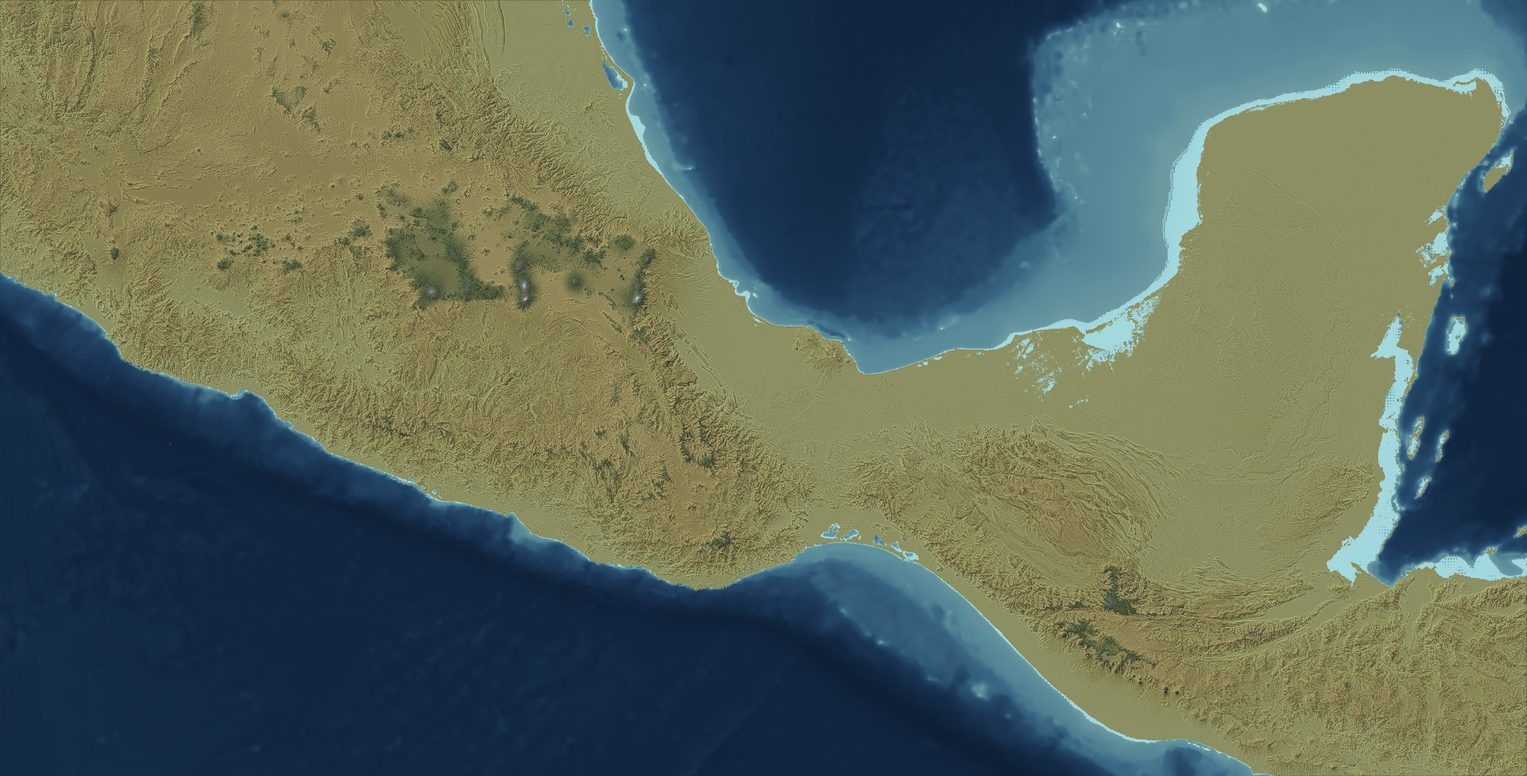
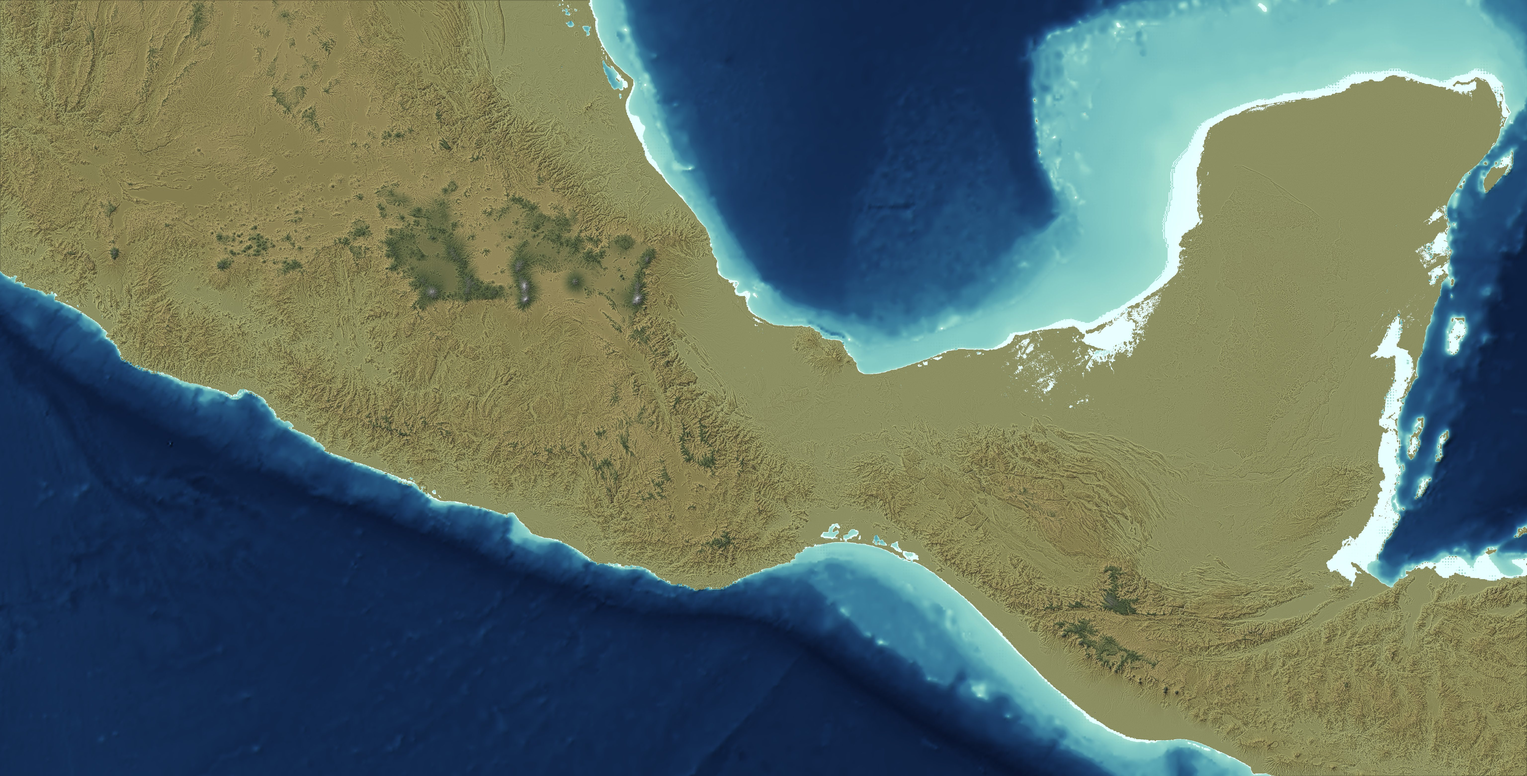
Water iter 2: the oceans get their real relief, turquoise shoals, cut rivers
DIAGNOSED, not tuned: the ocean was shaded at 0.82 + 0.25*hs, which flattened
ETOPO's actual relief — ridges, trenches, the shelf edge, seamounts — almost
out of existence. The reference's 'sea-floor fabric' IS that relief. Ocean
shading now runs 0.52 + 0.80*hs, the same light the land gets, and the
hypsometric ramp crowds its stops between -200 m and 0 where the shelf and
the eye both are, instead of spending range on abyss nobody looks at.

Result, verified at both coasts: the Gulf shows a turquoise Campeche shelf
with a clear break into a textured basin; the Pacific shows its narrow shelf
dropping straight into the Middle America Trench — the asymmetry is real and
now visible. Lake shoals turn turquoise as shallows do, and the Basin's
rivers cut a shaded valley before the water is drawn in it.

diff --git a/docs/data/meta.js b/docs/data/meta.js
@@ -1,3 +1,3 @@
 /* GENERATED by Research/modeling/emit.py — do not hand-edit. */
 window.DATA = window.DATA || {};
-DATA.meta = {"t0":1502.0,"t1":1551.0,"step":0.02,"unit":"yr","speeds":[0.05,0.2,1,3,8,20],"dataVersion":"20260729-215230","timescale":[{"from":1502.0,"to":1519.1315,"w":0.22},{"from":1519.1315,"to":1521.6329,"w":0.56},{"from":1521.6329,"to":1551.0,"w":0.22}],"campaign":[1519.1315,1521.6329],"views":{"meso":{"lon0":-105.0,"lat0":13.5,"lon1":-86.5,"lat1":22.5,"label":"Mesoamerica"},"basin":{"lon0":-99.55,"lat0":19.02,"lon1":-98.55,"lat1":19.95,"label":"Basin of Mexico"},"city":{"lon0":-99.235,"lat0":19.325,"lon1":-99.03,"lat1":19.515,"label":"Tenochtitlan"}},"terrain":{"meso":{"lon0":-105.0,"lat0":13.5,"lon1":-86.5,"lat1":22.5},"corridor":{"lon0":-100.2,"lat0":17.9,"lon1":-95.8,"lat1":20.4},"basin":{"lon0":-99.55,"lat0":19.02,"lon1":-98.55,"lat1":19.95},"city":{"lon0":-99.32,"lat0":19.27,"lon1":-98.94,"lat1":19.57}},"layers":[{"id":"water","label":"Lakes & works (1519 reconstruction)","on":true},{"id":"altepetl","label":"Altepetl & allegiance","on":true},{"id":"epidemic","label":"Epidemic wave (modelled)","on":true},{"id":"tribute","label":"Tribute flows","on":true},{"id":"track","label":"Campaign track","on":true},{"id":"events","label":"Events","on":true},{"id":"works","label":"Causeways & aqueduct cards","on":true},{"id":"city","label":"City model (phased)","on":true},{"id":"figures","label":"Figures & life (impression)","on":true}],"siege":{"start":1521.386301369863,"end":1521.613698630137,"arteries":[{"id":"causeway-tlacopan","label":"Tlacopan causeway","cut":1521.3863,"confidence":"good"},{"id":"causeway-coyoacan","label":"Coyohuacan causeway","cut":1521.3863,"confidence":"good"},{"id":"causeway-iztapalapa","label":"Iztapalapan causeway","cut":1521.3863,"confidence":"good"},{"id":"aqueduct-chapultepec","label":"Chapultepec aqueduct (fresh water)","cut":1521.3973,"confidence":"good"},{"id":"lake","label":"The open lake (canoe supply)","cut":1521.4137,"confidence":"good"},{"id":"causeway-tepeyac","label":"Tepeyacac causeway","cut":1521.4384,"confidence":"moderate"}]},"epidemicBand":[30,50],"epidemicFront":{"lat":19.446,"lon":-96.404,"t0":1520.3552,"kmPerYear":844.3},"cityPhases":{"siege":1521.386301369863,"fall":1521.613698630137,"colonial":1522.0384},"stateColor":{"alliance-core":"#a83232","tributary":"#c96f4a","independent":"#7d5fb2","rival":"#8a6d3b","contested":"#d9a441","allied-coalition":"#3f8f6b","occupied":"#5a7d9a","colonial-ally":"#4a9a8f","new-spain":"#8a8f98","spanish":"#6b7fa8"},"stateLabel":{"alliance-core":"Triple Alliance seat","tributary":"Tributary","independent":"Independent","rival":"Rival empire","contested":"Contested","allied-coalition":"Coalition","occupied":"Occupied","colonial-ally":"Colonial ally (privileged)","new-spain":"New Spain","spanish":"Spanish foundation"},"about":{"what":"An interactive model of the fall of Tenochtitlan and its aftermath, 1502-1550: the tributary system, the coalition that pulled it apart, the siege, and the colonial consolidation — every polity's allegiance computed per day from dated, cited events.","naming":"\"Aztec\" appears in this project's title for findability only. It is a modern coinage and never a self-designation: this model says Mexica for the people, Triple Alliance for the polity, and each altepetl's own name — Nahuatl endonym first, Spanish exonym second.","notKnow":["The 1519 lake shoreline is a reconstruction (González Aparicio 1973), drawn here at visualization grade — the lakes were drained after the conquest.","The coastline and sierra are simplified authored cartography (the modern coast, at this drawing's resolution, stands in for 1519's); the epidemic layer is a modelled wave pinned only at its documented start and its documented arrival in the capital — every other onset is a window, not a record.","Indigenous force numbers are contested by an order of magnitude; population and epidemic mortality more. Every such quantity is a band, never a number.","Motive and speech are the least constrained things in the record. Contested episodes carry a 'What the sources say' section instead of a verdict.","Nahua calendar equivalents are correlations anchored at 13 Aug 1521 = 1 Cóatl; the correlation itself is contested and is labelled as such.","Allegiance below the altepetl is not modelled; 'contested' is the resolution floor. Post-war absorption dates marked 'modelled' are defaults, not records.","The 1524 Nuremberg woodcut is georeferenced and measured at a mean best-fit residual of 2.2 km (5.5 km at the city itself): topology, not geometry. It appears here as a document, and nothing in the model traces it.","Figure-scale scenes — the marching files, skirmishes, canoe traffic, porters, refugees, the city's house fabric and its trees — are procedural ARTISTIC IMPRESSIONS rooted in the accounts (Calnek's urban fabric; the chroniclers' canoe-borne city; the causeway exodus after the fall). Contingent sizes follow the model's own force bands; positions are deterministic seeds, not records. Nothing at figure scale is an attestation."],"sources":["Cortés, Cartas de relación (1519-26) — a legal self-defence, used as such","Bernal Díaz, Historia verdadera (c. 1568) — the soldiers' counter-memoir","Florentine Codex Book XII (c. 1555-79) — Nahua testimony, Tlatelolca vantage","Anales de Tlatelolco; Durán; Alva Ixtlilxóchitl; Muñoz Camargo","Codex Mendoza (Berdan & Anawalt 1992); Gerhard (1972); Smith & Berdan (1996)","González Aparicio (1973), Plano reconstructivo — the named lake reconstruction","Thomas (1993); Hassig (2006); Gibson (1964) — modern chronology and aftermath","Terrain: NASA/USGS SRTM elevation and NOAA ETOPO1 bathymetry via the AWS Open Data Terrain Tiles (Mapzen terrarium) — public domain sources, rendered by this project's own pipeline; the seasonal palette is a modelled rendering choice","Card images: public-domain scans via Wikimedia Commons (Newberry Library; Bodleian; Biblioteca Medicea Laurenziana; Library of Congress/Kislak; Uppsala University Library), each subject-verified and credited on its card"]},"updates":[{"version":"2.3","date":"28 July 2026","title":"The city, built","summary":"Tenochtitlan is no longer an outline with dots on it. Zoom in and the island has its fabric: blocks of courtyard compounds under lime and thatch, canals and streets with width, chinampa strips, jetties where the city meets its lake, the walled precinct with its stepped pyramid — and every other altepetl has a town of its own, on its own plan.","items":["The dense world moved to a canvas layer under the map, which is what makes thousands of buildings per frame affordable; everything you can click stays in the layer above it.","Blocks have grain: each shares an orientation off the canal line and a roofing material, with lordly four-wing compounds near the precinct, garden blocks, and tight commoner wards toward the water — Calnek's finding that lot sizes varied by an order of magnitude, made visible.","The sacred precincts are architecture: a walled, paved court with gates on the causeway axes, the great temple as five terraces with twin stairways and the shrines of Tlaloc and Huitzilopochtli, the round temple of Ehecatl, the ballcourt, the tzompantli, and the calmecac ranges along the walls.","Towns differ from each other: dispersed wards for Tlaxcallan's four cabeceras, compact plaza towns on the roads, linear towns along the lakeshore — and Cholula carries the Tlachihualtepetl, the greatest pyramid by volume in the Americas, grassed over already in 1519.","The siege is legible on the ground: the causeway breaches the defenders cut and the attackers spent the siege filling, the arteries reddening as each is severed, the island charring south to north under its smoke, and the market crowd thinning to nothing.","After 1522 the same ground rebuilds as the traza — red-tiled courtyard blocks around their patios, the plaza and cathedral on the razed precinct — while the Mexica parcialidades keep their old fabric at the edges.","Landscape detail is GROWN from the measured terrain rather than invented: the elevation data is 30 m and the screen asks for one, so woodland clusters where the ground is darker than its neighbourhood, with field terraces on worked land and grain over everything."]},{"version":"2.2","date":"27 July 2026","title":"Uniform ground, and the world peopled","summary":"The whole war theatre now carries the same sharp terrain — a new corridor render from Veracruz to the Basin ends the blur beyond the valley — and the model gains its figure scale: files of soldiers on the march, skirmishes you can watch, canoes on the lake, porters on the tribute roads, the exodus after the fall, and the island's own house fabric at street zoom. All of it impression, and labelled so.","items":["A z11 terrain level covers the corridor Veracruz-Tlaxcallan-Basin-Morelos, and the base map doubles to its data's native grain — the seam a reader rightly photographed east of the Basin is gone.","At street zoom Tenochtitlan fills with its houses — densest toward the precinct, charring south-to-north during the razing, rebuilt as orthogonal traza blocks after 1522 — with trees on the chinampa gardens.","The column marches as a file: a steel-grey Spanish file and the far longer tan allied file behind it, lengths scaled to the model's own force bands.","Battles play as scenes: defenders ring the ground, attackers close on it through the event's window; massacres close a ring instead. Deterministic in t — scrub back and the same scene replays.","The lake lives: canoe traffic runs between the shore towns and the island until the day the brigantines break the fleet, waterfowl drift indifferent, porters walk the tribute arcs while their towns still owe, and for six weeks after the fall the causeways carry the grey file of the exodus.","Every figure-scale element is a seeded procedural impression rooted in the accounts — counts from the force bands, nothing at figure scale an attestation — stated in About and on the layer's own name."]},{"version":"2.1","date":"27 July 2026","title":"The city itself, and the war in motion","summary":"Tenochtitlan stops being an outline: precincts, palaces, the canal fabric, the chinampa skirts and the four campan, phased across the timeline — intact, besieged and burning, ruined, then colonial. The terrain sharpens to its data's native grain, and events stop being identical diamonds: the column marches, battles pulse, the epidemic front expands, the arteries redden as they are cut.","items":["The city model (drawn from Calnek, the excavations and the street fossils of the modern Centro): sacred precincts, the palaces of Axayácatl and Moctezuma, the great market, schematic canals — dashed because schematic — chinampa fringes, then the colonial traza and its churches after 1522. Every element is a card; the same place reads differently in 1519 and 1540.","City events sit where they happened: the meeting at Xoloc on the causeway, the seizure in Axayácatl's palace, Tóxcatl in the precinct courtyard, the last stand in Tlatelolco's market — and labels stack instead of overprinting, so the plague year's crowded weeks read cleanly.","The war moves: the column is drawn in transit between its dated waypoints; battles and massacres pulse rings for days after their date; the arteries turn crimson as each is cut; brigantines hold the lake; smoke stands over the razing; the epidemic's modelled front expands from the coast.","Terrain at native grain (z9/z12) with curvature-shaded ravines and rock on steep ground — and a rendering lesson kept honest: the first city render amplified upsampling noise into a checkerboard, was caught visually, and the curvature now fades below the data's 30 m grain."]},{"version":"2.0","date":"27 July 2026","title":"A living landscape, a continuous camera, and the record illustrated","summary":"The map becomes terrain: real elevation and ocean depth (NASA SRTM and NOAA ETOPO), hillshaded and breathing with the wet and dry seasons. The camera zooms freely between the scales. Chapters open as illustrated cards, and the record's own images — codices, the Lienzo, the 1524 woodcut — appear on the cards they belong to, each with its credit.","items":["Terrain everywhere: the Basin's ravined sierra, the drained lakebed under the reconstructed 1519 lakes, the Gulf's turquoise shelf and the Pacific trench — measured data, rendered wet and dry; the seasons crossfade as the year turns.","Popocatépetl smokes for its attested 1519-1528 active years (see 'Ordaz climbs the smoking mountain'), and cloud shadows thicken with the rains.","Zoom with the wheel, pan by dragging, or fly between the three named scales; the terrain streams in sharper as you approach.","Chapters are cards now: click one for the period's story, its image and its events. Ten illustrated with the record's own pictures — Mendoza folios, Book XII's smallpox plate, the Lienzo de Tlaxcala, the Kislak Sad Night, the Uppsala map.","The 1524 Nuremberg map is georeferenced and measured: best-fit residual 2.2 km (5.5 km at the city) — beautiful topology, unusable geometry, and the About panel now says exactly that with the number.","Every image is public domain, subject-verified, and credited on its card; the five searches that found nothing licence-safe are recorded as negatives in the manifest rather than papered over."]},{"version":"1.1","date":"27 July 2026","title":"The land under the war — and the war's slower weapons","summary":"The map now has its ground: coasts, seas, the sierras and the named volcanoes (a first-release report said, correctly, that the map was a black background). And two layers stop being scenery: the smallpox is a modelled wave, and the siege is a derived state.","items":["Land and sea: a simplified authored coastline, the Gulf and Pacific, the great sierras and eight named peaks — including the two volcanoes whose pass the column crossed in November 1519.","The epidemic is a mechanism now: a wave on the settlement network, seeded at the coast in May 1520 and calibrated to the documented sixty days in the capital from October — every polity shows its modelled onset window, and mortality stays a band (30-50%, contested).","The siege is derived, not narrated: six arteries — four causeways, the aqueduct, the open lake — each cut by a dated, cited event; a panel counts the tourniquets 0 to 6 between 22 May and 13 August 1521.","Eighteen people join the model as time-aware cards — the three last tlahtohqueh, Malintzin (with the four-century argument about her carried as accounts), the Tlaxcalteca leadership, and the aftermath's builders.","Twenty-five new events carry the record to ~90, including the contested Guadalupe tradition (dated as tradition, with the documentary silence stated), don Carlos of Texcoco's burning, the Colegio de Tlatelolco, and Sahagún beginning the interviews that became this model's own chief source.","Province cards now list their principal Mendoza tribute — cacao, quetzal feathers, gold dust, cochineal — so the web the coalition broke is legible good by good."]},{"version":"1.0","date":"27 July 2026","title":"The coalition is on the map","summary":"First release. The map draws allegiance per altepetl per day — 75 polities through the war and its aftermath — instead of a two-colour conquest.","items":["Every polity's standing (tributary, contested, coalition, occupied, New Spain) is computed from 64 dated, cited events; the mid-siege map shows 24 allied and 12 occupied against 30 still-tributary — the coalition, visibly.","Contested episodes — Cholula, Tóxcatl, Moctezuma's death and his famous 'surrender' — carry a 'What the sources say' section naming who claims what and why each would.","The lakes, causeways, dike and aqueduct follow González Aparicio's 1973 reconstruction, scored against the Templo Mayor anchor table (residuals under 6 m; no town drawn in the water).","The timeline gives the two war years 56% of the track at day resolution, with the scale breaks drawn; dates are Julian, with Nahua equivalents labelled as the correlations they are.","Force numbers appear only as ranges: at the siege, 700-950 Spaniards beside 24,000-200,000 Nahua allies — the sources are parties to every count."]}]};
+DATA.meta = {"t0":1502.0,"t1":1551.0,"step":0.02,"unit":"yr","speeds":[0.05,0.2,1,3,8,20],"dataVersion":"20260729-221816","timescale":[{"from":1502.0,"to":1519.1315,"w":0.22},{"from":1519.1315,"to":1521.6329,"w":0.56},{"from":1521.6329,"to":1551.0,"w":0.22}],"campaign":[1519.1315,1521.6329],"views":{"meso":{"lon0":-105.0,"lat0":13.5,"lon1":-86.5,"lat1":22.5,"label":"Mesoamerica"},"basin":{"lon0":-99.55,"lat0":19.02,"lon1":-98.55,"lat1":19.95,"label":"Basin of Mexico"},"city":{"lon0":-99.235,"lat0":19.325,"lon1":-99.03,"lat1":19.515,"label":"Tenochtitlan"}},"terrain":{"meso":{"lon0":-105.0,"lat0":13.5,"lon1":-86.5,"lat1":22.5},"corridor":{"lon0":-100.2,"lat0":17.9,"lon1":-95.8,"lat1":20.4},"basin":{"lon0":-99.55,"lat0":19.02,"lon1":-98.55,"lat1":19.95},"city":{"lon0":-99.32,"lat0":19.27,"lon1":-98.94,"lat1":19.57}},"layers":[{"id":"water","label":"Lakes & works (1519 reconstruction)","on":true},{"id":"altepetl","label":"Altepetl & allegiance","on":true},{"id":"epidemic","label":"Epidemic wave (modelled)","on":true},{"id":"tribute","label":"Tribute flows","on":true},{"id":"track","label":"Campaign track","on":true},{"id":"events","label":"Events","on":true},{"id":"works","label":"Causeways & aqueduct cards","on":true},{"id":"city","label":"City model (phased)","on":true},{"id":"figures","label":"Figures & life (impression)","on":true}],"siege":{"start":1521.386301369863,"end":1521.613698630137,"arteries":[{"id":"causeway-tlacopan","label":"Tlacopan causeway","cut":1521.3863,"confidence":"good"},{"id":"causeway-coyoacan","label":"Coyohuacan causeway","cut":1521.3863,"confidence":"good"},{"id":"causeway-iztapalapa","label":"Iztapalapan causeway","cut":1521.3863,"confidence":"good"},{"id":"aqueduct-chapultepec","label":"Chapultepec aqueduct (fresh water)","cut":1521.3973,"confidence":"good"},{"id":"lake","label":"The open lake (canoe supply)","cut":1521.4137,"confidence":"good"},{"id":"causeway-tepeyac","label":"Tepeyacac causeway","cut":1521.4384,"confidence":"moderate"}]},"epidemicBand":[30,50],"epidemicFront":{"lat":19.446,"lon":-96.404,"t0":1520.3552,"kmPerYear":844.3},"cityPhases":{"siege":1521.386301369863,"fall":1521.613698630137,"colonial":1522.0384},"stateColor":{"alliance-core":"#a83232","tributary":"#c96f4a","independent":"#7d5fb2","rival":"#8a6d3b","contested":"#d9a441","allied-coalition":"#3f8f6b","occupied":"#5a7d9a","colonial-ally":"#4a9a8f","new-spain":"#8a8f98","spanish":"#6b7fa8"},"stateLabel":{"alliance-core":"Triple Alliance seat","tributary":"Tributary","independent":"Independent","rival":"Rival empire","contested":"Contested","allied-coalition":"Coalition","occupied":"Occupied","colonial-ally":"Colonial ally (privileged)","new-spain":"New Spain","spanish":"Spanish foundation"},"about":{"what":"An interactive model of the fall of Tenochtitlan and its aftermath, 1502-1550: the tributary system, the coalition that pulled it apart, the siege, and the colonial consolidation — every polity's allegiance computed per day from dated, cited events.","naming":"\"Aztec\" appears in this project's title for findability only. It is a modern coinage and never a self-designation: this model says Mexica for the people, Triple Alliance for the polity, and each altepetl's own name — Nahuatl endonym first, Spanish exonym second.","notKnow":["The 1519 lake shoreline is a reconstruction (González Aparicio 1973), drawn here at visualization grade — the lakes were drained after the conquest.","The coastline and sierra are simplified authored cartography (the modern coast, at this drawing's resolution, stands in for 1519's); the epidemic layer is a modelled wave pinned only at its documented start and its documented arrival in the capital — every other onset is a window, not a record.","Indigenous force numbers are contested by an order of magnitude; population and epidemic mortality more. Every such quantity is a band, never a number.","Motive and speech are the least constrained things in the record. Contested episodes carry a 'What the sources say' section instead of a verdict.","Nahua calendar equivalents are correlations anchored at 13 Aug 1521 = 1 Cóatl; the correlation itself is contested and is labelled as such.","Allegiance below the altepetl is not modelled; 'contested' is the resolution floor. Post-war absorption dates marked 'modelled' are defaults, not records.","The 1524 Nuremberg woodcut is georeferenced and measured at a mean best-fit residual of 2.2 km (5.5 km at the city itself): topology, not geometry. It appears here as a document, and nothing in the model traces it.","Figure-scale scenes — the marching files, skirmishes, canoe traffic, porters, refugees, the city's house fabric and its trees — are procedural ARTISTIC IMPRESSIONS rooted in the accounts (Calnek's urban fabric; the chroniclers' canoe-borne city; the causeway exodus after the fall). Contingent sizes follow the model's own force bands; positions are deterministic seeds, not records. Nothing at figure scale is an attestation."],"sources":["Cortés, Cartas de relación (1519-26) — a legal self-defence, used as such","Bernal Díaz, Historia verdadera (c. 1568) — the soldiers' counter-memoir","Florentine Codex Book XII (c. 1555-79) — Nahua testimony, Tlatelolca vantage","Anales de Tlatelolco; Durán; Alva Ixtlilxóchitl; Muñoz Camargo","Codex Mendoza (Berdan & Anawalt 1992); Gerhard (1972); Smith & Berdan (1996)","González Aparicio (1973), Plano reconstructivo — the named lake reconstruction","Thomas (1993); Hassig (2006); Gibson (1964) — modern chronology and aftermath","Terrain: NASA/USGS SRTM elevation and NOAA ETOPO1 bathymetry via the AWS Open Data Terrain Tiles (Mapzen terrarium) — public domain sources, rendered by this project's own pipeline; the seasonal palette is a modelled rendering choice","Card images: public-domain scans via Wikimedia Commons (Newberry Library; Bodleian; Biblioteca Medicea Laurenziana; Library of Congress/Kislak; Uppsala University Library), each subject-verified and credited on its card"]},"updates":[{"version":"2.3","date":"28 July 2026","title":"The city, built","summary":"Tenochtitlan is no longer an outline with dots on it. Zoom in and the island has its fabric: blocks of courtyard compounds under lime and thatch, canals and streets with width, chinampa strips, jetties where the city meets its lake, the walled precinct with its stepped pyramid — and every other altepetl has a town of its own, on its own plan.","items":["The dense world moved to a canvas layer under the map, which is what makes thousands of buildings per frame affordable; everything you can click stays in the layer above it.","Blocks have grain: each shares an orientation off the canal line and a roofing material, with lordly four-wing compounds near the precinct, garden blocks, and tight commoner wards toward the water — Calnek's finding that lot sizes varied by an order of magnitude, made visible.","The sacred precincts are architecture: a walled, paved court with gates on the causeway axes, the great temple as five terraces with twin stairways and the shrines of Tlaloc and Huitzilopochtli, the round temple of Ehecatl, the ballcourt, the tzompantli, and the calmecac ranges along the walls.","Towns differ from each other: dispersed wards for Tlaxcallan's four cabeceras, compact plaza towns on the roads, linear towns along the lakeshore — and Cholula carries the Tlachihualtepetl, the greatest pyramid by volume in the Americas, grassed over already in 1519.","The siege is legible on the ground: the causeway breaches the defenders cut and the attackers spent the siege filling, the arteries reddening as each is severed, the island charring south to north under its smoke, and the market crowd thinning to nothing.","After 1522 the same ground rebuilds as the traza — red-tiled courtyard blocks around their patios, the plaza and cathedral on the razed precinct — while the Mexica parcialidades keep their old fabric at the edges.","Landscape detail is GROWN from the measured terrain rather than invented: the elevation data is 30 m and the screen asks for one, so woodland clusters where the ground is darker than its neighbourhood, with field terraces on worked land and grain over everything."]},{"version":"2.2","date":"27 July 2026","title":"Uniform ground, and the world peopled","summary":"The whole war theatre now carries the same sharp terrain — a new corridor render from Veracruz to the Basin ends the blur beyond the valley — and the model gains its figure scale: files of soldiers on the march, skirmishes you can watch, canoes on the lake, porters on the tribute roads, the exodus after the fall, and the island's own house fabric at street zoom. All of it impression, and labelled so.","items":["A z11 terrain level covers the corridor Veracruz-Tlaxcallan-Basin-Morelos, and the base map doubles to its data's native grain — the seam a reader rightly photographed east of the Basin is gone.","At street zoom Tenochtitlan fills with its houses — densest toward the precinct, charring south-to-north during the razing, rebuilt as orthogonal traza blocks after 1522 — with trees on the chinampa gardens.","The column marches as a file: a steel-grey Spanish file and the far longer tan allied file behind it, lengths scaled to the model's own force bands.","Battles play as scenes: defenders ring the ground, attackers close on it through the event's window; massacres close a ring instead. Deterministic in t — scrub back and the same scene replays.","The lake lives: canoe traffic runs between the shore towns and the island until the day the brigantines break the fleet, waterfowl drift indifferent, porters walk the tribute arcs while their towns still owe, and for six weeks after the fall the causeways carry the grey file of the exodus.","Every figure-scale element is a seeded procedural impression rooted in the accounts — counts from the force bands, nothing at figure scale an attestation — stated in About and on the layer's own name."]},{"version":"2.1","date":"27 July 2026","title":"The city itself, and the war in motion","summary":"Tenochtitlan stops being an outline: precincts, palaces, the canal fabric, the chinampa skirts and the four campan, phased across the timeline — intact, besieged and burning, ruined, then colonial. The terrain sharpens to its data's native grain, and events stop being identical diamonds: the column marches, battles pulse, the epidemic front expands, the arteries redden as they are cut.","items":["The city model (drawn from Calnek, the excavations and the street fossils of the modern Centro): sacred precincts, the palaces of Axayácatl and Moctezuma, the great market, schematic canals — dashed because schematic — chinampa fringes, then the colonial traza and its churches after 1522. Every element is a card; the same place reads differently in 1519 and 1540.","City events sit where they happened: the meeting at Xoloc on the causeway, the seizure in Axayácatl's palace, Tóxcatl in the precinct courtyard, the last stand in Tlatelolco's market — and labels stack instead of overprinting, so the plague year's crowded weeks read cleanly.","The war moves: the column is drawn in transit between its dated waypoints; battles and massacres pulse rings for days after their date; the arteries turn crimson as each is cut; brigantines hold the lake; smoke stands over the razing; the epidemic's modelled front expands from the coast.","Terrain at native grain (z9/z12) with curvature-shaded ravines and rock on steep ground — and a rendering lesson kept honest: the first city render amplified upsampling noise into a checkerboard, was caught visually, and the curvature now fades below the data's 30 m grain."]},{"version":"2.0","date":"27 July 2026","title":"A living landscape, a continuous camera, and the record illustrated","summary":"The map becomes terrain: real elevation and ocean depth (NASA SRTM and NOAA ETOPO), hillshaded and breathing with the wet and dry seasons. The camera zooms freely between the scales. Chapters open as illustrated cards, and the record's own images — codices, the Lienzo, the 1524 woodcut — appear on the cards they belong to, each with its credit.","items":["Terrain everywhere: the Basin's ravined sierra, the drained lakebed under the reconstructed 1519 lakes, the Gulf's turquoise shelf and the Pacific trench — measured data, rendered wet and dry; the seasons crossfade as the year turns.","Popocatépetl smokes for its attested 1519-1528 active years (see 'Ordaz climbs the smoking mountain'), and cloud shadows thicken with the rains.","Zoom with the wheel, pan by dragging, or fly between the three named scales; the terrain streams in sharper as you approach.","Chapters are cards now: click one for the period's story, its image and its events. Ten illustrated with the record's own pictures — Mendoza folios, Book XII's smallpox plate, the Lienzo de Tlaxcala, the Kislak Sad Night, the Uppsala map.","The 1524 Nuremberg map is georeferenced and measured: best-fit residual 2.2 km (5.5 km at the city) — beautiful topology, unusable geometry, and the About panel now says exactly that with the number.","Every image is public domain, subject-verified, and credited on its card; the five searches that found nothing licence-safe are recorded as negatives in the manifest rather than papered over."]},{"version":"1.1","date":"27 July 2026","title":"The land under the war — and the war's slower weapons","summary":"The map now has its ground: coasts, seas, the sierras and the named volcanoes (a first-release report said, correctly, that the map was a black background). And two layers stop being scenery: the smallpox is a modelled wave, and the siege is a derived state.","items":["Land and sea: a simplified authored coastline, the Gulf and Pacific, the great sierras and eight named peaks — including the two volcanoes whose pass the column crossed in November 1519.","The epidemic is a mechanism now: a wave on the settlement network, seeded at the coast in May 1520 and calibrated to the documented sixty days in the capital from October — every polity shows its modelled onset window, and mortality stays a band (30-50%, contested).","The siege is derived, not narrated: six arteries — four causeways, the aqueduct, the open lake — each cut by a dated, cited event; a panel counts the tourniquets 0 to 6 between 22 May and 13 August 1521.","Eighteen people join the model as time-aware cards — the three last tlahtohqueh, Malintzin (with the four-century argument about her carried as accounts), the Tlaxcalteca leadership, and the aftermath's builders.","Twenty-five new events carry the record to ~90, including the contested Guadalupe tradition (dated as tradition, with the documentary silence stated), don Carlos of Texcoco's burning, the Colegio de Tlatelolco, and Sahagún beginning the interviews that became this model's own chief source.","Province cards now list their principal Mendoza tribute — cacao, quetzal feathers, gold dust, cochineal — so the web the coalition broke is legible good by good."]},{"version":"1.0","date":"27 July 2026","title":"The coalition is on the map","summary":"First release. The map draws allegiance per altepetl per day — 75 polities through the war and its aftermath — instead of a two-colour conquest.","items":["Every polity's standing (tributary, contested, coalition, occupied, New Spain) is computed from 64 dated, cited events; the mid-siege map shows 24 allied and 12 occupied against 30 still-tributary — the coalition, visibly.","Contested episodes — Cholula, Tóxcatl, Moctezuma's death and his famous 'surrender' — carry a 'What the sources say' section naming who claims what and why each would.","The lakes, causeways, dike and aqueduct follow González Aparicio's 1973 reconstruction, scored against the Templo Mayor anchor table (residuals under 6 m; no town drawn in the water).","The timeline gives the two war years 56% of the track at day resolution, with the scale breaks drawn; dates are Julian, with Nahua equivalents labelled as the correlations they are.","Force numbers appear only as ranges: at the siege, 700-950 Spaniards beside 24,000-200,000 Nahua allies — the sources are parties to every count."]}]};

diff --git a/docs/js/app.js b/docs/js/app.js
@@ -669,10 +669,10 @@ const DEPTH_STOPS = [
   [0.22, 26, 62, 112, 1.00],
   [0.42, 40, 92, 145, 0.99],
   [0.55, 62, 126, 172, 0.97],    // the break
-  [0.68, 96, 164, 190, 0.92],
-  [0.82, 132, 192, 202, 0.84],   // the shoal
-  [0.93, 168, 212, 210, 0.72],
-  [1.00, 196, 226, 218, 0.55],   // the waterline, where the bed shows through
+  [0.68, 88, 168, 186, 0.92],
+  [0.82, 122, 196, 196, 0.84],   // the shoal turns turquoise, as shallows do
+  [0.93, 158, 216, 204, 0.72],
+  [1.00, 190, 228, 212, 0.55],   // the waterline, where the bed shows through
 ];
 
 function depthColour(k, wet) {
@@ -814,16 +814,24 @@ function drawLakes(wet) {
   if (state.cam.span < 3.0 && D.geo.rivers) {
     for (const r of D.geo.rivers) {
       const n = r.points.length;
-      for (let i = 0; i < n - 1; i++) {
-        const [ax, ay] = project(r.points[i][0], r.points[i][1]);
-        const [bx, by] = project(r.points[i + 1][0], r.points[i + 1][1]);
-        const grow = (i + 1) / (n - 1);
-        ctx.beginPath();
-        ctx.moveTo(ax, ay); ctx.lineTo(bx, by);
-        ctx.lineCap = 'round';
-        ctx.lineWidth = Math.max(0.8, (0.00006 + 0.00016 * grow) * PROJ.s);
-        ctx.strokeStyle = `rgba(96,150,186,${(0.5 + 0.35 * grow).toFixed(2)})`;
-        ctx.stroke();
+      // a river cuts a valley: the shaded incision first, then the water in it
+      for (let pass = 0; pass < 2; pass++) {
+        for (let i = 0; i < n - 1; i++) {
+          const [ax, ay] = project(r.points[i][0], r.points[i][1]);
+          const [bx, by] = project(r.points[i + 1][0], r.points[i + 1][1]);
+          const grow = (i + 1) / (n - 1);
+          ctx.beginPath();
+          ctx.moveTo(ax, ay); ctx.lineTo(bx, by);
+          ctx.lineCap = 'round';
+          if (pass === 0) {                        // the cut bank, sun from NW
+            ctx.lineWidth = Math.max(1.6, (0.00016 + 0.00030 * grow) * PROJ.s);
+            ctx.strokeStyle = 'rgba(46,52,38,.30)';
+          } else {
+            ctx.lineWidth = Math.max(0.8, (0.00006 + 0.00016 * grow) * PROJ.s);
+            ctx.strokeStyle = `rgba(96,158,190,${(0.55 + 0.35 * grow).toFixed(2)})`;
+          }
+          ctx.stroke();
+        }
       }
       const m = r.points[n - 1], p0 = r.points[n - 2];
       const [mx, my] = project(m[0], m[1]);

diff --git a/web/js/app.js b/web/js/app.js
@@ -669,10 +669,10 @@ const DEPTH_STOPS = [
   [0.22, 26, 62, 112, 1.00],
   [0.42, 40, 92, 145, 0.99],
   [0.55, 62, 126, 172, 0.97],    // the break
-  [0.68, 96, 164, 190, 0.92],
-  [0.82, 132, 192, 202, 0.84],   // the shoal
-  [0.93, 168, 212, 210, 0.72],
-  [1.00, 196, 226, 218, 0.55],   // the waterline, where the bed shows through
+  [0.68, 88, 168, 186, 0.92],
+  [0.82, 122, 196, 196, 0.84],   // the shoal turns turquoise, as shallows do
+  [0.93, 158, 216, 204, 0.72],
+  [1.00, 190, 228, 212, 0.55],   // the waterline, where the bed shows through
 ];
 
 function depthColour(k, wet) {
@@ -814,16 +814,24 @@ function drawLakes(wet) {
   if (state.cam.span < 3.0 && D.geo.rivers) {
     for (const r of D.geo.rivers) {
       const n = r.points.length;
-      for (let i = 0; i < n - 1; i++) {
-        const [ax, ay] = project(r.points[i][0], r.points[i][1]);
-        const [bx, by] = project(r.points[i + 1][0], r.points[i + 1][1]);
-        const grow = (i + 1) / (n - 1);
-        ctx.beginPath();
-        ctx.moveTo(ax, ay); ctx.lineTo(bx, by);
-        ctx.lineCap = 'round';
-        ctx.lineWidth = Math.max(0.8, (0.00006 + 0.00016 * grow) * PROJ.s);
-        ctx.strokeStyle = `rgba(96,150,186,${(0.5 + 0.35 * grow).toFixed(2)})`;
-        ctx.stroke();
+      // a river cuts a valley: the shaded incision first, then the water in it
+      for (let pass = 0; pass < 2; pass++) {
+        for (let i = 0; i < n - 1; i++) {
+          const [ax, ay] = project(r.points[i][0], r.points[i][1]);
+          const [bx, by] = project(r.points[i + 1][0], r.points[i + 1][1]);
+          const grow = (i + 1) / (n - 1);
+          ctx.beginPath();
+          ctx.moveTo(ax, ay); ctx.lineTo(bx, by);
+          ctx.lineCap = 'round';
+          if (pass === 0) {                        // the cut bank, sun from NW
+            ctx.lineWidth = Math.max(1.6, (0.00016 + 0.00030 * grow) * PROJ.s);
+            ctx.strokeStyle = 'rgba(46,52,38,.30)';
+          } else {
+            ctx.lineWidth = Math.max(0.8, (0.00006 + 0.00016 * grow) * PROJ.s);
+            ctx.strokeStyle = `rgba(96,158,190,${(0.55 + 0.35 * grow).toFixed(2)})`;
+          }
+          ctx.stroke();
+        }
       }
       const m = r.points[n - 1], p0 = r.points[n - 2];
       const [mx, my] = project(m[0], m[1]);

diff --git a/docs/index.html b/docs/index.html
@@ -4,7 +4,7 @@
 <meta charset="utf-8">
 <meta name="viewport" content="width=device-width,initial-scale=1">
 <title>Aztec Conquest</title>
-<link rel="stylesheet" href="css/styles.css?dv=20260729-215230">
+<link rel="stylesheet" href="css/styles.css?dv=20260729-221816">
 </head>
 <body>
 
@@ -122,11 +122,11 @@
   </div>
 </div>
 
-<script src="data/meta.js?dv=20260729-215230"></script>
-<script src="data/eras.js?dv=20260729-215230"></script>
-<script src="data/entities.js?dv=20260729-215230"></script>
-<script src="data/eventsFull.js?dv=20260729-215230"></script>
-<script src="data/geo.js?dv=20260729-215230"></script>
-<script src="js/app.js?dv=20260729-215230"></script>
+<script src="data/meta.js?dv=20260729-221816"></script>
+<script src="data/eras.js?dv=20260729-221816"></script>
+<script src="data/entities.js?dv=20260729-221816"></script>
+<script src="data/eventsFull.js?dv=20260729-221816"></script>
+<script src="data/geo.js?dv=20260729-221816"></script>
+<script src="js/app.js?dv=20260729-221816"></script>
 </body>
 </html>

diff --git a/build/terrain.py b/build/terrain.py
@@ -160,9 +160,12 @@ LAND = {
             (3900, (110, 116, 106)), (4400, (152, 156, 158)), (4750, (230, 234, 238)),
             (5700, (246, 248, 252))],
 }
-OCEAN = [(-6500, (14, 30, 52)), (-3500, (18, 40, 66)), (-1500, (28, 56, 88)),
-         (-400, (40, 76, 108)), (-120, (58, 104, 132)), (-25, (92, 142, 156)),
-         (0, (118, 160, 164))]
+# Hypsometric ocean, with the shelf break where it belongs. The stops crowd
+# between -200 and 0 m because that is where the shelf is and where the eye
+# reads the coast; a linear ramp spends its range on abyss nobody looks at.
+OCEAN = [(-6500, (9, 20, 44)), (-4500, (13, 30, 60)), (-3000, (18, 42, 78)),
+         (-1500, (26, 60, 100)), (-600, (36, 84, 122)), (-200, (54, 118, 146)),
+         (-80, (84, 156, 166)), (-25, (126, 190, 184)), (0, (160, 210, 194))]
 
 
 def render(view):
@@ -200,7 +203,11 @@ def render(view):
         col = col * (1 - rock * 0.45) + np.array([124, 118, 108], np.float32) * rock * 0.45
         oce = _lut(OCEAN, np.clip(E, -6500, 0))
         shade_l = (0.40 + 0.72 * hs2)[..., None]
-        shade_o = (0.82 + 0.25 * hs)[..., None]
+        # The sea floor is REAL DATA and deserves the same light the land gets.
+        # At 0.82 + 0.25*hs the ETOPO relief — ridges, trenches, the shelf edge,
+        # seamounts — was flattened almost out of existence; the reference's
+        # "fabric" is exactly that relief, shaded hard.
+        shade_o = (0.52 + 0.80 * hs)[..., None]
         img = np.where(land[..., None], col * shade_l, oce * shade_o)
         # shoreline glint: thin bright line where |E| is tiny
         shore = (np.abs(E) < 6)[..., None]
